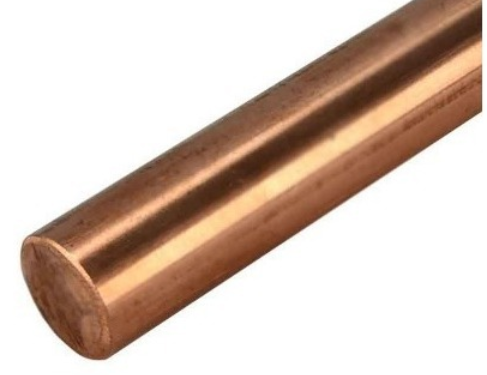
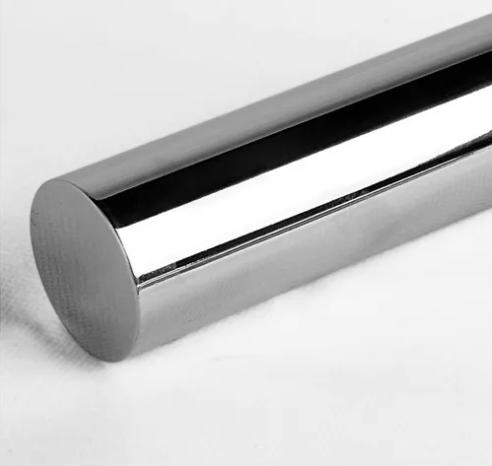
ajustes

diff --git a/textual/implementacao/Hardware.tex b/textual/implementacao/Hardware.tex
@@ -13,8 +13,11 @@ O sensor de temperatura DS18b20 é alimentado pelos pinos de 5V e GND (terra) do
 \end{figure}
 
 
-O excerto de código em linguagem Arduino a seguir representa a função utilizada para ler o valor de saída do sensor. A biblioteca OneWire (https://github.com/PaulStoffregen/OneWire) implementa o protocolo proprietário de comunicação serial da Dallas Semicondutor, fabricante do sensor. Ela é utilizada em conjunto com a biblioteca livre DallasTemperature (https://github.com/milesburton/Arduino-Temperature-Control-Library) para estabelecer a comunicação com o DS18B20.
+O excerto de código em linguagem Arduino a seguir representa a função utilizada para ler o valor de saída do sensor. A biblioteca OneWire implementa o protocolo proprietário de comunicação serial da Dallas Semicondutor, fabricante do sensor. Ela é utilizada em conjunto com a biblioteca livre DallasTemperature para estabelecer a comunicação com o DS18B20.
 
+% // TODO: Referências das bibliotecas
+% https://github.com/milesburton/Arduino-Temperature-Control-Library
+% https://github.com/PaulStoffregen/OneWire
 
 % \begin{lstlisting}[language=C]
 
@@ -106,11 +109,101 @@ A leitura do pH medido pelo sensor pelo microcontrolador segue o seguinte algori
 
 \subsection{Conexão e Comunicação do Microcontrolador}
 
-Com os sensores propriamente conectados e calibrados, o microcontrolador foi configurado para se conectar à Internet através de conexão WiFi e a enviar os dados coletados por meio do protocolo MQTT. O Wemos D1 é controlada pelo módulo ESP8266, de forma que ofereça conectividade WiFi nativa. A biblioteca ESP8266WiFi (https://github.com/esp8266/Arduino/tree/master/libraries/ESP8266WiFi) foi utilizada para estabelecer a conexão Wifi, em conjunto com a biblioteca PubSubClient (https://github.com/knolleary/pubsubclient) para publicar mensagens e se inscrever em tópicos MQTT. 
+Com os sensores propriamente conectados e calibrados, o microcontrolador foi configurado para se conectar à Internet através de conexão WiFi e a enviar os dados coletados por meio do protocolo MQTT. O Wemos D1 é controlada pelo módulo ESP8266, de forma que ofereça conectividade WiFi nativa. 
+A biblioteca ESP8266WiFi foi utilizada para estabelecer a conexão Wifi, em conjunto com a biblioteca PubSubClient para publicar mensagens e se inscrever em tópicos MQTT. 
+
+% https://github.com/esp8266/Arduino/tree/master/libraries/ESP8266WiFi
+% https://github.com/knolleary/pubsubclient
+
+% // TODO: Colocar código completo em Apêndice e discutir Fluxo completo aqui
+
+\subsection{Controle de Temperatura}
+
+Um controlador de malha fechada proporcional interativo derivativo (PID) será utilizado para controlar a temperatura do fermentador. Esse método é amplamente utilizado na indústria, possuindo boa precisão e confiabilidade, além de ser facilmente sintonizado. Inicialmente são definidos parâmetros analógicos e depois é criado o controle digital.
 
 
-% // TODO: Colocar código completo em Apêncice e discutir Fluxo completo aqui
+\subsubsection{Controlador PID}
+
+O controlador PID utiliza 3 ações (proporcional, integrativa e derivativa) controlar a planta minimizando o erro. Sua saída pode ser definida pela equação \ref{eq:pid}. A figura \ref{fig:pid} esquematiza a malha de controle.
+
+\begin{equation}
+%     u(t) = K_pe(t) + K_i\[\int_{0}^{t} e(\tau) \, d\tau \] + K_d\dfrac{de(t)}{dt}
+    u(t) = K_pe(t) + K_i  \int_{0}^{t} e(\tau) \, d\tau + K_d\dfrac{de(t)}{\, dt}
+    \label{eq:pid}
+\end{equation}
+
+Na qual:
+
+\begin{table}[H]
+    \begin{center}
+        \begin{tabular}{ |c|c| } 
+            \hline
+            Símbolo   &  Descrição  \\
+            \hline
+            \(K_p\)   &  ganho proporcional  \\
+            \hline
+            \(K_i\)   &  ganho integrativo  \\
+            \hline
+            \(K_d\)   &  ganho derivativo  \\
+            \hline
+            \(e\)   &  erro  \\
+            \hline
+            \(t\)   &  tempo  \\
+            \hline
+            \(\tau\)   &  tempo de integração \\
+            \hline
+        \end{tabular}
+        \caption{\label{tab:variaveis_pid}Descrição das variáveis do controlador PID da Equação \ref{eq:pid}.}
+    \end{center}
+\end{table}
+
+\begin{figure}[h]
+    \centering
+    \includegraphics[scale=0.60]{figuras/implementacao/hardware/pid.jpg}
+    \caption{Malha de controle PID.}
+    \label{fig:pid}
+\end{figure}
 
 
+A ação proporcional do controlador produz um sinal de saída proporcional à amplitude do erro $e(t)$. Essa ação é útil para criar uma resposta equivalente ao tamanho do erro do sistema. A ação integral produz um sinal de saída proporcional à magnitude do erro, dependendo não só do seu valor, mas também da sua duração. Essa ação corrige o erro de off-set gerado pela ação proporcional e acelera a resposta do sistema. Por fim, a ação derivativa produz um sinal de saída proporcional à velocidade de variação do erro. Essa ação melhora a estabilidade e velocidade de resposta do sistema através de uma correção antecipada do erro. 
+
+
+\subsubsection{Método de Ziegler-Nichols}
+
+
+Para escolha dos parâmetros de ganho, o método de Ziegler-Nichols foi utilizado. Esse método foi escolhido principalmente pela sua simplicidade e facilidade na sintonização, visto que não é necessário uma modelagem matemática precisa da planta para o seu ajuste. 
+A escolha dos parâmetros é feita a partir da observação da resposta do sistema em malha aberta com a aplicação de um degrau. A figura \ref{fig:resposta_sistema} ilustra a curva de resposta do sistema, e a tabela \ref{tab:parametros_ziegler} lista os parâmetros provenientes do método.
+
+
+\begin{figure}[h]
+    \centering
+    \includegraphics[scale=0.45]{figuras/implementacao/hardware/resposta.png}
+    \caption{Responda do Sistema em malha aberta a sinal degrau.}
+    \label{fig:resposta_sistema}
+\end{figure}
+
+\begin{table}[H]
+    \begin{center}
+        \begin{tabular}{ |c|c|c|c| } 
+            \hline
+            Controlador & \(K_p\) & \(T_I\) & \(T_D\) \\
+            \hline
+            \(P\) & \(1/\alpha\) &  & \\
+            \hline
+            \(P + I\) & \(0,9/\alpha\) & \(3L\) & \\
+            \hline
+            \(P + I + D\) & \(1,2/\alpha\) & \(2L\) & \(0,5L\) \\
+            \hline
+        \end{tabular}
+        \caption{\label{tab:parametros_ziegler} Parâmetros do controlador PID seguindo método de Ziegler-Nichols.}
+    \end{center}
+\end{table}
+
+
+
+\subsubsection{Anti Wind-up}
+
+
+Nesta aplicação, devido a limitações do atuador, é esperado uma saturação na saída. No caso onde o sistema não consegue chegar no setpoint, teremos uma situação chamada de wind-up, na qual, a sua resposta integral irá crescer de forma indefinida. Para evitar problemas no controlador, é necessário a implementação de um sistema anti wind-up, no caso, a ação escolhida será congelar a ação do controlador em caso de saturação.  
 
 

diff --git a/textual/projeto/Controle.tex b/textual/projeto/Controle.tex
@@ -70,11 +70,11 @@ As hipóteses 1, 2, 3  podem ser adotadas devido ao horizonte de tempo da fermen
     \label{fig:fermentador_circuito}
 \end{figure}
 
-\begin{table}
+\begin{table}[H]
     \begin{center}
         \begin{tabular}{ |c|c| } 
             \hline
-            Variável   &  Descrição  \\
+            Símbolo   &  Descrição  \\
             \hline
             \(r_1\)   &  raio do fermentador  \\
             \hline
@@ -130,7 +130,7 @@ Um dos maiores desafios do projeto é criar um sistema que consiga trocar calor 
 \end{equation}
 
 Possibilitando assim o uso de um circuito junto com o microcontrolador para o controle de temperatura. 
-O sistema será composto por um dissipador de calor e um dissipador de calor e uma ventoinha na face quente (figura \ref{fig:cooler}). Dessa forma podemos otimizar a expulsão de calor do dispositivo. E uma haste de cobre (figura \ref{fig:haste_cobre}) ligado no lado frio, o metal é considerado um bom condutor térmico e servirá como condutor de calor entre a o fermentador e o módulo de Peltier. Essa abordagem foi inspirada no aparelho homebrew citado anteriormente. 
+O sistema será composto por um dissipador de calor e um dissipador de calor e uma ventoinha na face quente (figura \ref{fig:cooler}). Dessa forma podemos otimizar a expulsão de calor do dispositivo. E uma haste de aço inoxidável (figura \ref{fig:haste_inox}) ligado no lado frio, o metal é considerado um bom condutor térmico e servirá como condutor de calor entre a o fermentador e o módulo de Peltier. Essa abordagem foi inspirada no aparelho homebrew citado anteriormente. 
 
 \begin{figure}[h]
     \centering
@@ -143,8 +143,8 @@ O sistema será composto por um dissipador de calor e um dissipador de calor e u
 \begin{figure}[h]
     \centering
     \includegraphics[scale=0.30]{figuras/projeto/controle/haste.png}
-    \caption{Haste de cobre.}
-    \label{fig:haste_cobre}
+    \caption{Haste de Aço inoxidável.}
+    \label{fig:haste_inox}
 \end{figure}
 
 % // TODO: Simulação com Matlab

diff --git a/textual/projeto/Software.tex b/textual/projeto/Software.tex
@@ -92,7 +92,7 @@ Descrição: fluxo para visualização das informações gerais e de evolução 
 \end{enumerate}    
 Requisitos relacionados: SW-F-2, SW-F-3, SW-F-8, SW-F-11
 
-\begin{figure}[ht]
+\begin{figure}[H]
     \centering
     \includegraphics[scale=0.45]{figuras/projeto/software/diagrama_casos_de_uso.png}
     \caption{Diagrama de Casos de Uso.}
@@ -112,6 +112,13 @@ seu funcionamento. A separação das entidades em domínios é importante na arq
 controle apenas às informações de sua competência. 
 
 A definição das entidades e seus relacionamentos é ilustrada pelo Diagrama Entidade Relacionamento da figura \ref{fig:diagrama_entidade_relacionamento}, com destaque em cor para cada um dos schemas determinados.
+
+\begin{figure}[H]
+    \centering
+    \includegraphics[scale=0.16]{figuras/projeto/software/banco_de_dados.png}
+    \caption{Diagrama de Entidade-Relacionamento.}
+    \label{fig:diagrama_entidade_relacionamento}
+\end{figure}
 
 \subsection{Arquitetura de Software}
 
@@ -190,12 +197,12 @@ A Camada de Persistência (figura \ref{fig:camada_persistencia}) abriga os servi
     \label{fig:camada_persistencia}
 \end{figure}
 
-\begin{figure}[ht]
-    \centering
-    \includegraphics[scale=0.15]{figuras/projeto/software/banco_de_dados.png}
-    \caption{Diagrama de Entidade-Relacionamento.}
-    \label{fig:diagrama_entidade_relacionamento}
-\end{figure}
+% \begin{figure}[ht]
+%     \centering
+%     \includegraphics[scale=0.15]{figuras/projeto/software/banco_de_dados.png}
+%     \caption{Diagrama de Entidade-Relacionamento.}
+%     \label{fig:diagrama_entidade_relacionamento}
+% \end{figure}
 
 \begin{figure}[ht]
     \centering

diff --git a/textual/projeto/Hardware.tex b/textual/projeto/Hardware.tex
@@ -87,7 +87,7 @@ Dessa forma, mantendo a diferença de alturas \(\Delta h\) fixa e conhecida, é 
 
 Seguindo a especificação do requisito HW-F-3, o sistema deve ser capaz de medir densidades relativas de 1,000 e 1,150, em relação à água a 20 °C, o que corresponde a uma faixa entre 998,203 e 1147,933 kg/m³. Considerando a aceleração gravitacional 9.807 m/s² e uma distância de 20 cm entre os dois pontos medidos (o que é razoável para fermentadores pequenos, até 50L), a faixa de operação do sensor de diferencial de pressão deve ser, em diferentes unidades comerciais:
 
-\begin{table}
+\begin{table}[H]
     \begin{center}
         \begin{tabular}{ |c|c|c|c| } 
             \hline

diff --git a/textual/2_Contexto.tex b/textual/2_Contexto.tex
@@ -110,7 +110,7 @@ concentração de oxigênio e gás carbônico dissolvidos. Munroe (\citeonline{F
 perfil de evolução de algumas dessas variáveis na fermentação de uma cerveja do
 tipo Lager (Figura \ref{fig:variaveis_fermentacao}):
 
-\begin{figure}[h]
+\begin{figure}[H]
     \centering
     \includegraphics[scale=0.40]{figuras/contexto/variaveis_fermentacao.PNG}
     \caption{Gráfico de evolução de variáveis ao longo da fermentação - Munroe \cite{FermentationMunroe} }
